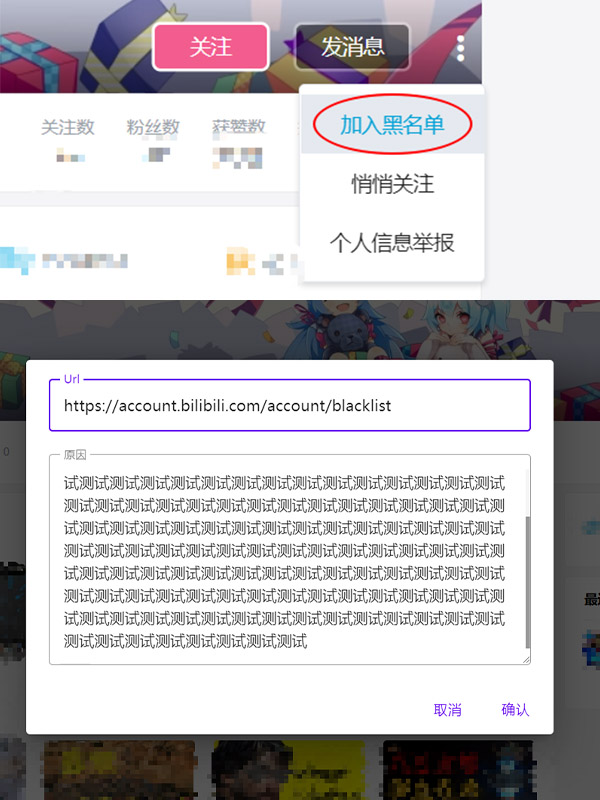
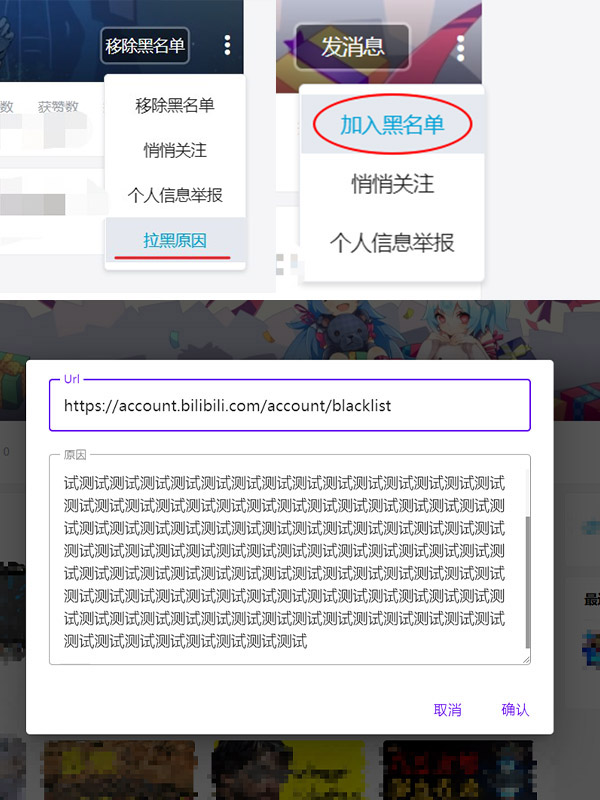
更新README.md

Changed region(s): [[0.0, 0.0, 0.48, 0.3438]]

diff --git a/BilibiliSmallTools.js b/BilibiliSmallTools.js
@@ -1,8 +1,8 @@
 // ==UserScript==
 // @name               哔哩哔哩 小功能
 // @namespace          https://github.com/MrSTOP
-// @version            0.4.5.1
-// @description        ！！此版本可能引入了破坏性更改！！记录为什么屏蔽了此人，支持导入导出。添加自动跳过充电页面功能，调整B站恶心的自动连播功能
+// @version            0.4.6.2
+// @description        ！！此版本(0.4.6.2)可能引入了破坏性更改，为避免问题，有关自动播放的设置已被重置，请重新设置（不影响已保存的拉黑原因）！！记录为什么屏蔽了此人，支持导入导出。添加自动跳过充电页面功能，调整B站恶心的自动连播功能
 // @author             MrSTOP
 // @license            GPLv3
 // @run-at             document-start

diff --git a/README.md b/README.md
@@ -1,4 +1,5 @@
 修复[哔哩哔哩 为什么拉黑](https://greasyfork.org/zh-CN/scripts/31615-bilibili-why-blocked)脚本，增加用户空间页拉黑添加原因功能，并添加一些小功能(自动跳过充电页面，单P视频是否自动播放推荐视频，多P视频是否自动播放分P，多P视频是否自动播放推荐视频，番剧是否自动连播)，可能有BUG，如果不工作，先刷新试试
+**0.4.6.2可能引入了破坏性更改，为避免问题，有关自动播放的设置已被重置，请重新设置（不影响已保存的拉黑原因）**
 
 [项目地址](https://github.com/MrSTOP/BilibiliSmallTools)
 
@@ -7,7 +8,7 @@
 ![评论区拉黑示意图](./CommentBlock.png)
 
 
-用户空间拉黑会记录进入用户空间前的网址并可以填写原因
+用户空间拉黑会记录进入用户空间前的网址并可以填写及查看原因
 
 ![用户空间拉黑示意图](./SpaceBlock.jpg)
 
